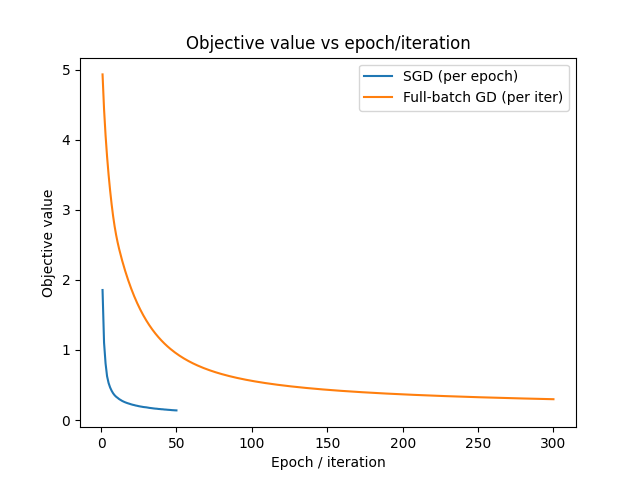
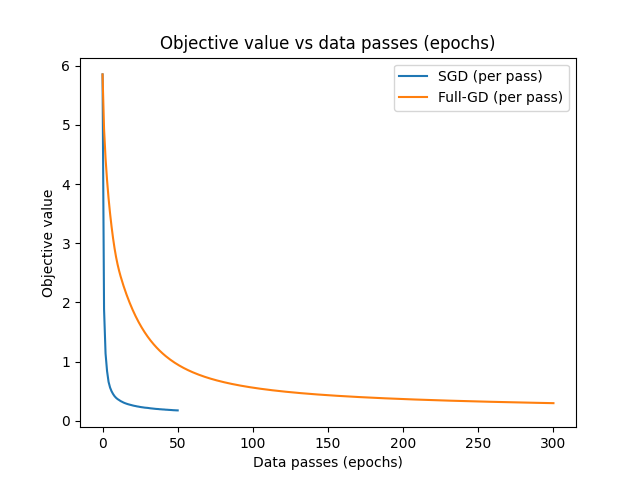
Fixed training of fgd to also show loss at 0 iterations and updated plots

diff --git a/programming/main.py b/programming/main.py
@@ -77,8 +77,8 @@ def main() -> None:
     plt.title("Confusion matrix (FGD final model)")
 
     # Objective vs data passes (epochs)
-    x_sgd = np.arange(1, len(sgd_obj) + 1)
-    x_gd = np.arange(1, len(gd_obj) + 1)
+    x_sgd = np.arange(0, len(sgd_obj))
+    x_gd = np.arange(0, len(gd_obj))
     plt.figure()
     plt.plot(x_sgd, sgd_obj, label="SGD (per pass)")
     plt.plot(x_gd, gd_obj, label="Full-GD (per pass)")
@@ -89,8 +89,8 @@ def main() -> None:
 
 
     # Optimality gap vs data passes (epochs) on a log scale
-    x_sgd = np.arange(1, len(sgd_gap) + 1)
-    x_gd = np.arange(1, len(gd_gap) + 1)
+    x_sgd = np.arange(0, len(sgd_gap))
+    x_gd = np.arange(0, len(gd_gap))
     plt.figure()
     plt.semilogy(x_sgd, sgd_gap + 1e-16, label="SGD gap (per pass)")
     plt.semilogy(x_gd, gd_gap + 1e-16, label="Full-GD gap (per pass)")
